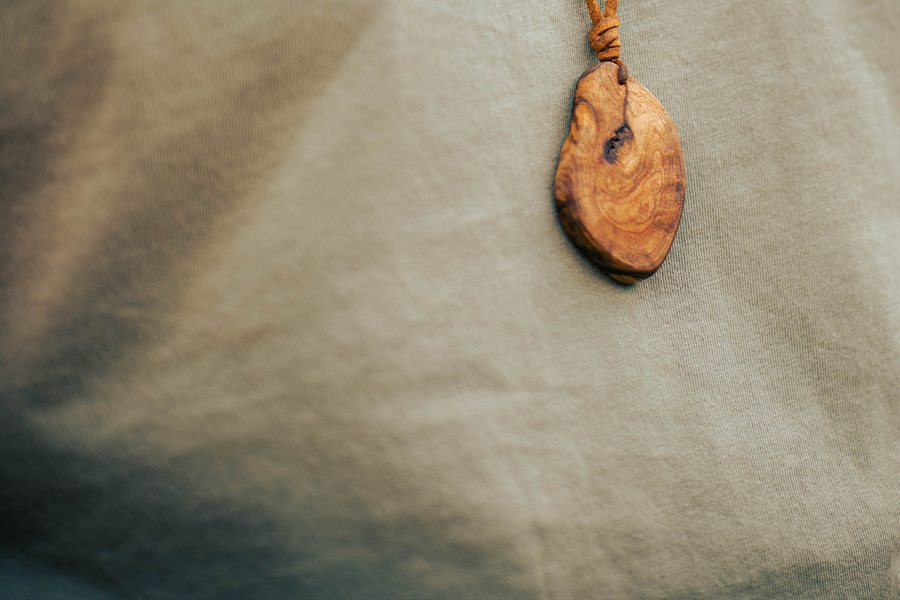
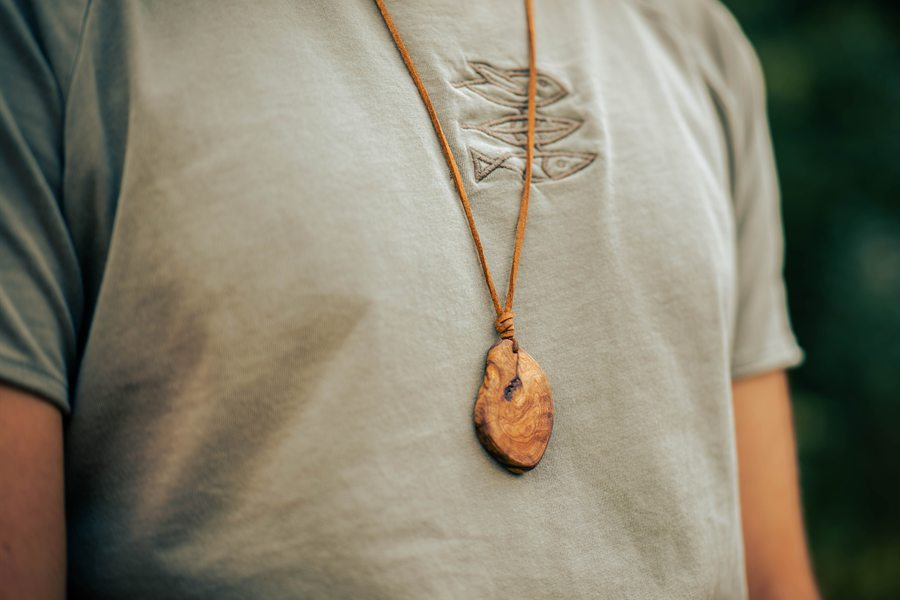
Begleitung: Koru raus, Bild weiter herausgezoomt
Die drehende Koru im Hero ist entfernt - sie lag genau ueber dem
Symbol auf dem Shirt. Der Bildausschnitt zeigt jetzt Symbol UND
Anhaenger. Damit die Ueberschrift beide nicht verdeckt, bricht sie am
Rechner auf zwei Zeilen (max-width 11ch) und der Schleier kommt fast
nur von links; rechts bleibt das Foto ueber die ganze Hoehe offen.

Am Handy nimmt der Text die volle Breite ein - dort kommt der Schleier
von unten, oben bleibt das Symbol frei. Gemessen: Vorzeile 8:1 statt
2:1, Ueberschrift 9:1, Untertitel 10:1.

diff --git a/begleitung.html b/begleitung.html
@@ -36,20 +36,23 @@
 
   /* --- Hero ------------------------------------------------------------- */
   header.hero{min-height:92svh;}
-  /* Der Anhaenger sitzt im Bild bei rund 68 % Breite. Der Ausschnitt haelt ihn
-     dort - am Handy wird seitlich stark beschnitten, sonst rutscht er raus. */
-  .hero-bg img{object-position:68% center;transform:scale(1.05);animation:kb 26s ease-in-out infinite alternate;}
-  /* Links steht der Text, rechts bleibt der Anhaenger frei - der Verlauf muss
-     schon auf halber Hoehe tragen. */
+  /* Symbol auf dem Shirt und Anhaenger stehen im Bild uebereinander bei rund
+     58 % Breite. Der Ausschnitt haelt beide - am Handy wird seitlich stark
+     beschnitten, sonst rutschen sie aus dem Bild. */
+  .hero-bg img{object-position:58% center;transform:scale(1.05);animation:kb 26s ease-in-out infinite alternate;}
+  /* Der Schatten kommt fast nur von links, wo der Text steht. Rechts bleibt
+     das Foto ueber die ganze Hoehe offen, damit Symbol und Anhaenger zu sehen
+     sind; unten nur so viel, dass der Uebergang zum naechsten Abschnitt sitzt. */
   .hero-bg::after{content:"";position:absolute;inset:0;background:
-    /* Schatten von links: nur dort, wo der Text steht - rechts bleibt das Foto offen */
-    linear-gradient(95deg,rgba(10,12,9,.72) 0%,rgba(10,12,9,.52) 28%,rgba(10,12,9,.14) 56%,transparent 72%),
-    linear-gradient(180deg,rgba(12,14,11,.55) 0%,rgba(12,14,11,.1) 20%,rgba(12,14,11,.42) 38%,rgba(12,14,11,.86) 60%,rgba(12,14,11,.99) 100%);}
+    linear-gradient(95deg,rgba(10,12,9,.9) 0%,rgba(10,12,9,.78) 26%,rgba(10,12,9,.4) 48%,rgba(10,12,9,.1) 66%,transparent 82%),
+    linear-gradient(180deg,rgba(12,14,11,.5) 0%,rgba(12,14,11,.1) 22%,rgba(12,14,11,.14) 58%,rgba(12,14,11,.72) 100%);}
   /* Vorzeile steht direkt im Bild: helleres Gold plus weicher dunkler Schein */
   .hero .eyebrow{color:var(--gold-2);text-shadow:0 2px 10px rgba(8,9,7,.95),0 0 24px rgba(8,9,7,.8);}
-  .hero-koru{position:absolute;z-index:1;top:42%;left:50%;width:min(70vw,600px);height:min(70vw,600px);transform:translate(-50%,-50%);color:var(--gold);opacity:.07;animation:spin 120s linear infinite;}
   .hero .back{opacity:0;animation:rise .9s ease .1s forwards;}
-  .hero h1{font-size:clamp(42px,7.7vw,92px);font-weight:500;margin:14px 0 18px;opacity:0;animation:rise 1.1s ease .35s forwards;}
+  /* Ueberschrift bewusst schmal: sie bricht auf zwei Zeilen und laesst die
+     rechte Bildhaelfte frei - dort haengen Symbol und Anhaenger. */
+  .hero h1{font-size:clamp(42px,7vw,84px);font-weight:500;margin:14px 0 18px;max-width:11ch;
+    opacity:0;animation:rise 1.1s ease .35s forwards;}
   /* Zwei Saetze statt einer Zeile: kleiner und breiter als sonst, damit der
      Hero nicht zur Textwand wird. Der zweite Satz steht etwas ruhiger. */
   .hero .sub{font-family:var(--serif);font-style:italic;font-size:clamp(18px,2vw,23px);
@@ -105,6 +108,13 @@
   @media(max-width:900px){
     .split{grid-template-columns:1fr;}
     .split .visual{order:-1;aspect-ratio:4/4;max-height:60vh;}
+    /* Am Handy nimmt der Text die volle Breite ein - der Schleier kommt
+       deshalb von unten statt von links. Oben bleibt das Symbol auf dem
+       Shirt frei, ab der Mitte traegt der Grund die Schrift. */
+    .hero-bg::after{background:linear-gradient(180deg,
+      rgba(12,14,11,.42) 0%,rgba(12,14,11,.06) 14%,rgba(12,14,11,.12) 24%,
+      rgba(12,14,11,.78) 38%,rgba(12,14,11,.9) 60%,rgba(12,14,11,.96) 100%);}
+    .hero h1{max-width:none;}
   }
 </style>
 <script type="application/ld+json">
@@ -140,7 +150,6 @@
 
   <header class="hero">
     <div class="hero-bg"><img src="assets/erdhueter-header.jpg" srcset="assets/erdhueter-header-900.jpg 900w, assets/erdhueter-header.jpg 1600w" sizes="100vw" width="1600" height="1067" fetchpriority="high" alt="Selbst geschnitzter Holzanhänger an einem Lederband auf der Brust" /></div>
-    <span class="koru hero-koru"></span>
     <div class="wrap hero-inner">
       <a href="index.html" class="back">← zurück zu Wairua.Spirit</a>
       <div class="eyebrow">4-monatige Einzelbegleitung</div>
